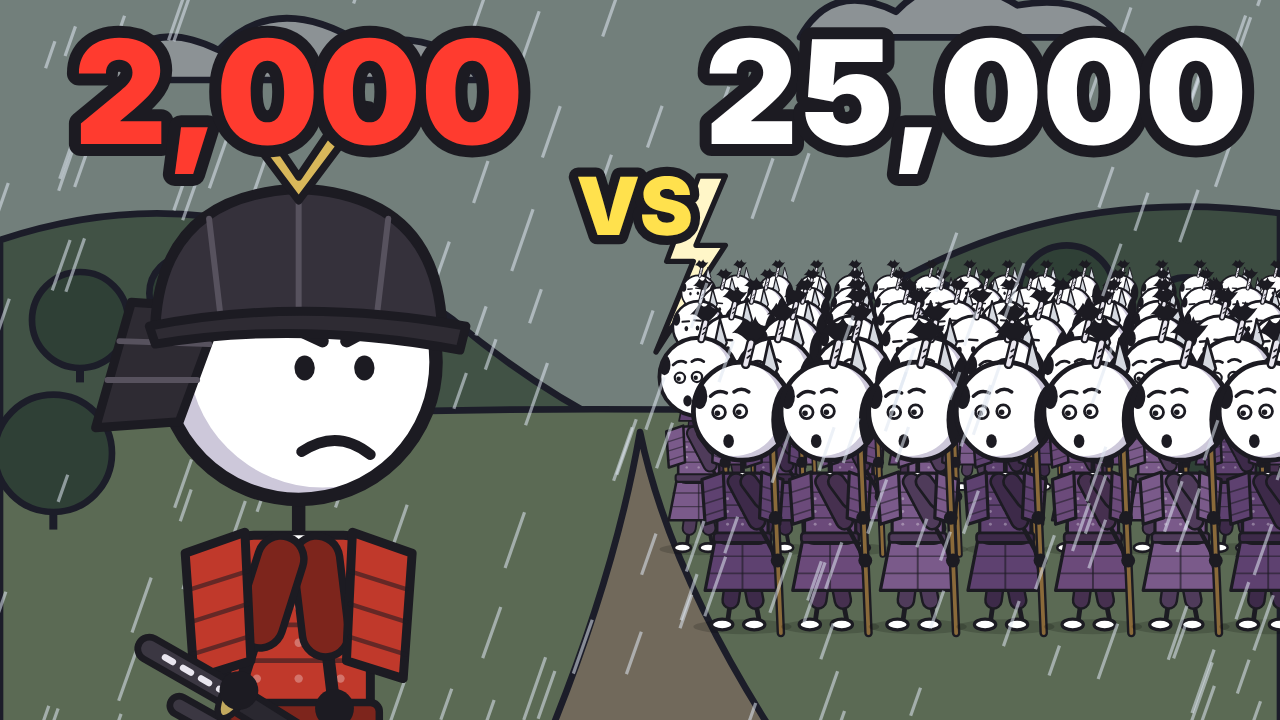
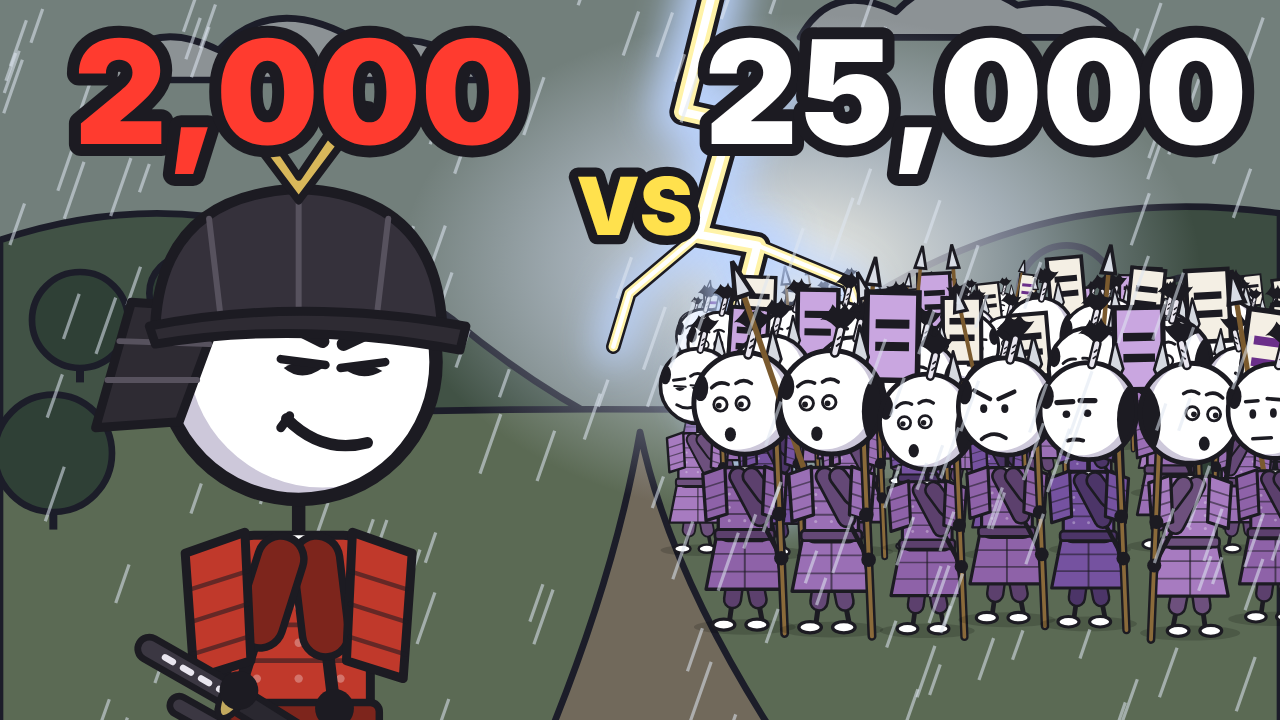
Episode 2 thumbnail: fuller army, smirking Nobunaga, lightning flash
- Imagawa army: brighter purples, mixed faces, size/position jitter,
  sashimono banners with the two-bar crest and spears at odd angles
- Nobunaga: thumbnail-only 'fierce' face (narrowed eyes, one-sided smirk)
- Lightning bolt with glow and a sky flash behind the army for separation

Claude-Session: https://claude.ai/code/session_017MZkjKDMev6tKpnRG7nu5t

diff --git a/episodes/02-okehazama/thumbnail.js b/episodes/02-okehazama/thumbnail.js
@@ -7,6 +7,12 @@ const html = fs.readFileSync(path.join(root, "index.html"), "utf8");
 const script = html.split("<script>")[1].split("/* ---------- State + UI")[0];
 const ctx = {}; vm.createContext(ctx);
 vm.runInContext(script + ";this.character=character;this.SCENES=SCENES;", ctx);
+// Thumbnail-only face: sharp, narrowed eyes under angry brows plus a one-sided confident smirk
+vm.runInContext(`FACES.fierce={label:"Fierce smirk",d:()=>ln(68,56,85,64,INK,4.6)+ln(108,55,92,63,INK,4.6)
+  +'<path d="M72,73 Q78,69 85,72 Q79,77 72,73Z" fill="'+INK+'"/><path d="M92,72 Q99,68 105,72 Q99,77 92,72Z" fill="'+INK+'"/>'
+  +ln(71,70,86,72,INK,2.8)+ln(91,71,106,69,INK,2.8)
+  +'<path d="M77,97 Q92,101 104,89" fill="none" stroke="'+INK+'" stroke-width="3.8" stroke-linecap="round"/>'
+  +ln(103,88,106,92,INK,3)};`, ctx);
 
 const base = { hair: "none", hat: "none", face: "neutral", outfit: "stick", color: "#3a3640", prop: "none", pose: "stand", flip: false };
 const mk = o => ({ ...base, ...o });
@@ -15,26 +21,59 @@ const put = (cfg, x, ground, sc) => `<g transform="translate(${x - 100 * sc} ${g
 let s = `<svg xmlns="http://www.w3.org/2000/svg" viewBox="0 30 480 270" width="1280" height="720">`;
 s += ctx.SCENES.valley.d();
 s += `<rect x="0" y="0" width="480" height="320" fill="#1d2233" opacity="0.45"/>`;
-// lightning
-s += `<path d="M262,96 L250,128 L260,128 L246,162 L272,122 L261,122 L272,96Z" fill="#fff6c8" stroke="#1c1b22" stroke-width="2" stroke-linejoin="round"/>`;
-// Imagawa crowd (many small soldiers, facing left), back rows first
-const imaColors = ["#6b4a7a", "#7a5a8a", "#5e4170"];
-const rows = [[0.14,168,16],[0.17,180,14],[0.21,195,12],[0.26,213,10],[0.32,236,8],[0.40,265,7]];
-rows.forEach(([sc, g, n], row) => {
+// lightning behind the army: glow, sky flash, bolt with branches
+const bolt = "M268,24 L256,72 L274,76 L262,118 L284,122 L270,176 L292,214";
+const branch1 = "M262,118 L236,140 L230,160", branch2 = "M284,122 L318,136 L326,158", branch3 = "M274,76 L300,60";
+s += `<defs><radialGradient id="flash" cx="0.5" cy="0.5" r="0.5"><stop offset="0" stop-color="#fbf7e8" stop-opacity="0.95"/><stop offset="0.55" stop-color="#dfe8ff" stop-opacity="0.45"/><stop offset="1" stop-color="#dfe8ff" stop-opacity="0"/></radialGradient>
+  <filter id="glow" filterUnits="userSpaceOnUse" x="0" y="0" width="480" height="320"><feGaussianBlur stdDeviation="7"/></filter></defs>`;
+s += `<ellipse cx="300" cy="130" rx="150" ry="95" fill="url(#flash)"/>`;
+// the bolt itself is drawn between the back and front rows of the army (see below)
+const drawBolt = () => {
+  let o = "";
+  for (const [w, c, op, f] of [[24, "#bcd4ff", 0.95, ' filter="url(#glow)"'], [10, "#1c1b22", 1, ""], [6.5, "#fff3a8", 1, ""], [3, "#ffffff", 1, ""]]) {
+    for (const d of [bolt, branch1, branch2, branch3]) {
+      const ww = d === bolt ? w : w * 0.55;
+      o += `<path d="${d}" fill="none" stroke="${c}" stroke-width="${ww}" stroke-linejoin="round" stroke-linecap="round" opacity="${op}"${f}/>`;
+    }
+  }
+  return o;
+};
+// Imagawa crowd (many small soldiers, facing left), back rows first; jitter, mixed faces,
+// sashimono banners and spears at odd angles so it reads as a big, messy army
+let seed = 7; const rnd = () => ((seed = (seed * 16807) % 2147483647) / 2147483647);
+const imaColors = ["#8e62a8", "#a77bc0", "#7552a0", "#9a6fb5"];
+const faces = ["neutral", "surprised", "angry", "smug", "determined", "surprised", "neutral", "gentle"];
+const flagColors = [["#f4efe4", "#1c1b22"], ["#c9a6e0", "#1c1b22"], ["#f4efe4", "#6b2f8a"]];
+const rows = [[0.14,176,16],[0.17,187,14],[0.21,200,12],[0.26,213,10],[0.32,236,8],[0.40,265,7]];
+rows.forEach(([sc0, g0, n], row) => {
+  if (row === 3) s += drawBolt();
   for (let i = 0; i < n; i++) {
-    const x = 262 + (i + (row % 2) * 0.5) * (230 / n);
-    s += put({ hair: "topknot", outfit: "armor", color: imaColors[(i + row) % 3], prop: "spear", face: row >= 4 ? "surprised" : "neutral" }, x, g, sc);
+    const sc = sc0 * (0.92 + rnd() * 0.16), g = g0 + (rnd() - 0.5) * 6;
+    const x = 262 + (i + (row % 2) * 0.5) * (230 / n) + (rnd() - 0.5) * 8;
+    let extra = "";
+    if (rnd() < 0.5) {  // sashimono: pole on the back with a tall banner (Imagawa two-bar crest)
+      const [bg, mark] = flagColors[Math.floor(rnd() * 3)], tilt = (rnd() - 0.5) * 16;
+      extra += `<g transform="rotate(${tilt.toFixed(1)} 128 170)"><line x1="128" y1="170" x2="128" y2="-30" stroke="#1c1b22" stroke-width="5"/>
+        <rect x="128" y="-28" width="46" height="78" fill="${bg}" stroke="#1c1b22" stroke-width="5"/>
+        <rect x="136" y="-4" width="30" height="8" fill="${mark}"/><rect x="136" y="16" width="30" height="8" fill="${mark}"/></g>`;
+    }
+    if (rnd() < 0.45) {  // extra spear leaning at an angle
+      const a = (rnd() - 0.5) * 40;
+      extra += `<g transform="rotate(${a.toFixed(1)} 100 200)"><line x1="100" y1="230" x2="100" y2="-40" stroke="#7a5a2e" stroke-width="5"/>
+        <path d="M100,-70 L92,-38 L108,-38Z" fill="#d9dde6" stroke="#1c1b22" stroke-width="4"/></g>`;
+    }
+    const cfg = mk({ hair: "topknot", outfit: "armor", color: imaColors[Math.floor(rnd() * 4)], prop: "spear",
+      face: faces[Math.floor(rnd() * faces.length)], flip: rnd() < 0.12 });
+    s += `<g transform="translate(${(x - 100 * sc).toFixed(1)} ${(g - 272 * sc).toFixed(1)}) scale(${sc.toFixed(3)})">${extra}${ctx.character(cfg)}</g>`;
   }
 });
 // rain
-let seed = 7; const rnd = () => ((seed = (seed * 16807) % 2147483647) / 2147483647);
 for (let i = 0; i < 200; i++) {
   const x = rnd() * 560 - 40, y = rnd() * 300 + 20, l = 10 + rnd() * 14;
   s += `<line x1="${x.toFixed(1)}" y1="${y.toFixed(1)}" x2="${(x - l * 0.35).toFixed(1)}" y2="${(y + l).toFixed(1)}" stroke="#dfe7f2" stroke-width="1.2" opacity="0.55"/>`;
 }
 // Nobunaga, big, facing right
-s += ``;
-s += put({ outfit: "armor", color: "#c0392b", hat: "kabuto", prop: "katana", face: "angry", flip: true }, 112, 392, 1.12);
+s += put({ outfit: "armor", color: "#c0392b", hat: "kabuto", prop: "katana", face: "fierce", flip: true }, 112, 392, 1.12);
 // text
 const T = (x, y, size, fill, txt, anchor = "middle", sw = 9) =>
   `<text x="${x}" y="${y}" font-family="Inter" font-weight="900" font-size="${size}" text-anchor="${anchor}" fill="${fill}" stroke="#1c1b22" stroke-width="${sw}" paint-order="stroke" stroke-linejoin="round">${txt}</text>`;
